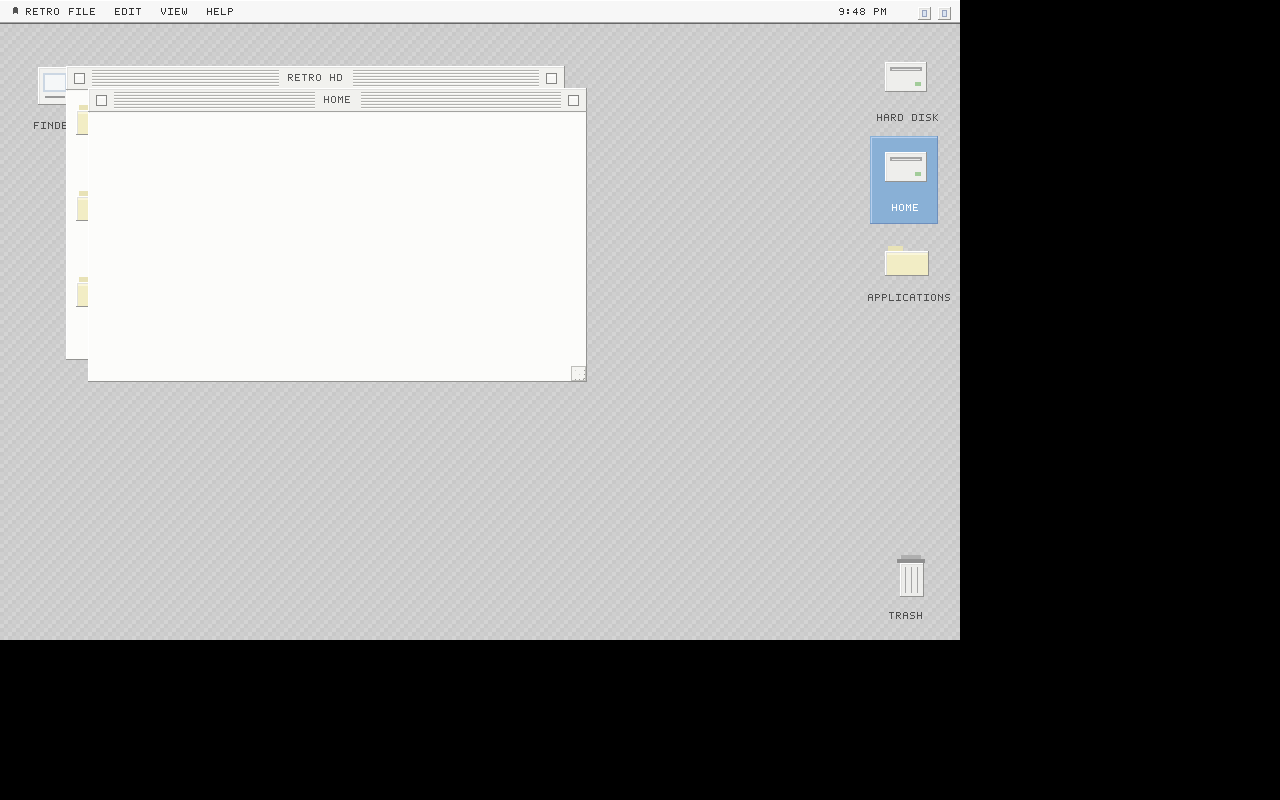
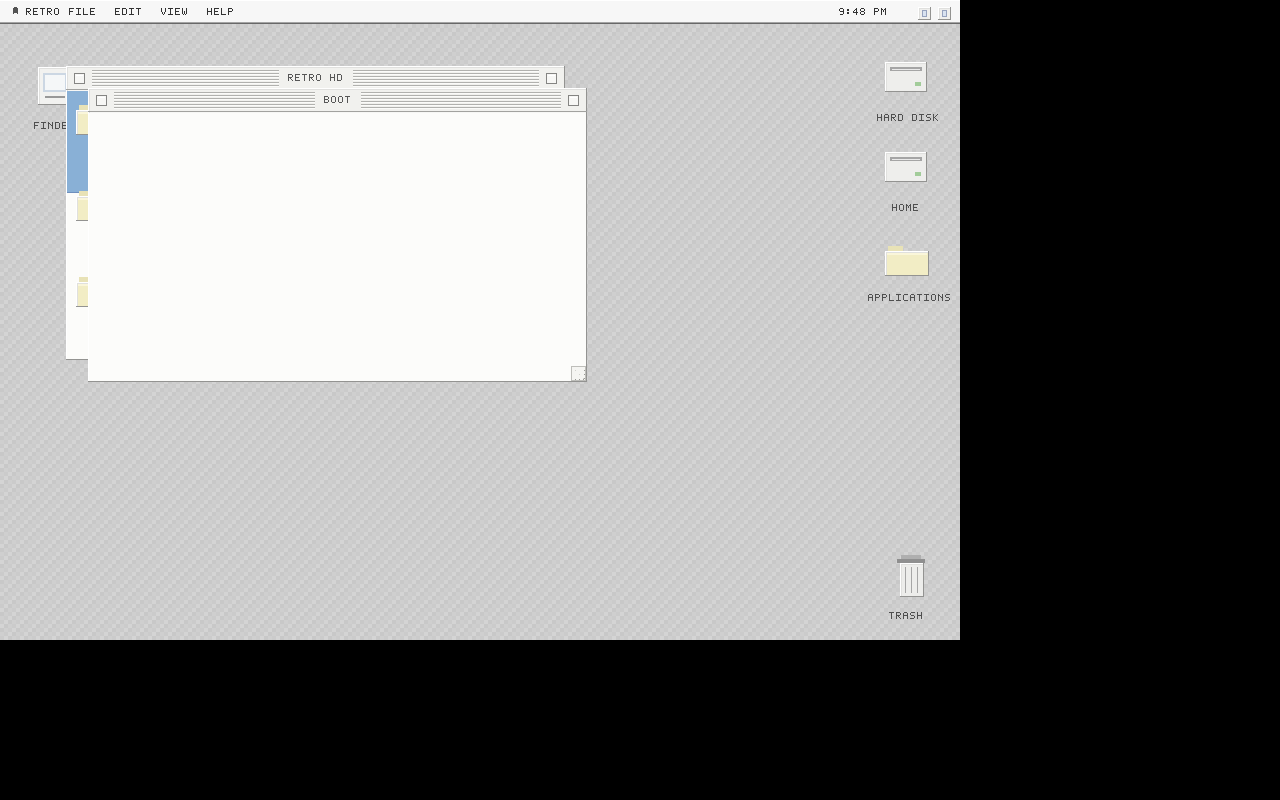
Open child folders from shell windows

Changed region(s): [[0.6562, 0.1562, 0.75, 0.2812], [0.0312, 0.0938, 0.0938, 0.25]]

diff --git a/crates/retro-shell/src/lib.rs b/crates/retro-shell/src/lib.rs
@@ -127,8 +127,14 @@ struct ShellDesktop {
 struct ShellWindow {
     id: Uuid,
     window: Window,
+    folder_path: Option<PathBuf>,
     restore_rect: Option<Rect>,
     mode: ShellWindowMode,
+}
+
+struct FolderOpenTarget {
+    title: String,
+    path: PathBuf,
 }
 
 #[derive(Debug, Clone, Copy, PartialEq, Eq)]
@@ -295,6 +301,7 @@ impl ShellDesktop {
         self.windows.push(ShellWindow {
             id,
             window,
+            folder_path: Some(path),
             restore_rect: None,
             mode: ShellWindowMode::Normal,
         });
@@ -398,6 +405,34 @@ impl ShellDesktop {
             .rev()
             .find(|(_, window)| window.window.rect().contains(point))
             .map(|(index, _)| index)
+    }
+
+    fn folder_open_target_at(&self, window_index: usize, point: Point) -> Option<FolderOpenTarget> {
+        let shell_window = self.windows.get(window_index)?;
+        let folder_path = shell_window.folder_path.as_ref()?;
+        let icon_view = shell_window
+            .window
+            .content
+            .as_ref()?
+            .as_any()
+            .downcast_ref::<IconView>()?;
+        let item = icon_view
+            .items
+            .iter()
+            .find(|item| item.rect.contains(point))?;
+        if item.icon.as_deref() != Some("folder") {
+            return None;
+        }
+
+        let path = folder_path.join(&item.label);
+        if !path.is_dir() {
+            return None;
+        }
+
+        Some(FolderOpenTarget {
+            title: item.label.clone(),
+            path,
+        })
     }
 
     fn layout_window(&mut self, id: Uuid) {
@@ -795,6 +830,17 @@ impl Widget for ShellDesktop {
             }
             Event::DoubleClick { point, .. } => {
                 if let Some(index) = self.top_window_index_at(*point) {
+                    let window_id = self.windows[index].id;
+                    self.focus_window(window_id);
+                    let Some(index) = self.window_index(window_id) else {
+                        return EventResult::Ignored;
+                    };
+
+                    if let Some(target) = self.folder_open_target_at(index, *point) {
+                        self.open_folder_window(target.title, target.path);
+                        return EventResult::Handled;
+                    }
+
                     let result = self.windows[index].window.handle_event(event);
                     if matches!(result, EventResult::Handled | EventResult::StopPropagation) {
                         return result;
@@ -863,6 +909,7 @@ impl Widget for ShellDesktop {
 #[cfg(test)]
 mod tests {
     use super::*;
+    use retro_kit::event::Modifiers;
     use std::time::{SystemTime, UNIX_EPOCH};
 
     fn temp_shell_root() -> PathBuf {
@@ -890,6 +937,22 @@ mod tests {
         assert_eq!(actual.y, expected.y);
         assert_eq!(actual.width, expected.width);
         assert_eq!(actual.height, expected.height);
+    }
+
+    fn icon_item_center(window: &ShellWindow, label: &str) -> Point {
+        let icon_view = window
+            .window
+            .content
+            .as_ref()
+            .and_then(|content| content.as_any().downcast_ref::<IconView>())
+            .expect("shell folder window has icon content");
+        let rect = icon_view
+            .items
+            .iter()
+            .find(|item| item.label == label)
+            .expect("folder item exists")
+            .rect;
+        Point::new(rect.x + rect.width / 2.0, rect.y + rect.height / 2.0)
     }
 
     #[test]
@@ -961,6 +1024,58 @@ mod tests {
         let active = desktop.windows.last().expect("active home window");
         assert_eq!(active.window.title(), "Home");
         assert_eq!(window_manager.read().active_window, Some(active.id));
+    }
+
+    #[test]
+    fn shell_folder_window_double_click_opens_child_folder() {
+        let root = temp_shell_root();
+        fs::create_dir_all(root.join("Projects")).unwrap();
+        fs::write(root.join("note.txt"), "hello").unwrap();
+        let (mut desktop, window_manager) = test_desktop();
+        let initial_count = desktop.windows.len();
+        let root_id = desktop.open_folder_window("Root", root.clone());
+        let index = desktop.window_index(root_id).unwrap();
+        let point = icon_item_center(&desktop.windows[index], "Projects");
+
+        let result = desktop.handle_event(&Event::DoubleClick {
+            button: MouseButton::Left,
+            point,
+            modifiers: Modifiers::NONE,
+        });
+
+        assert!(matches!(result, EventResult::Handled));
+        assert_eq!(desktop.windows.len(), initial_count + 2);
+        let active = desktop.windows.last().expect("child folder window");
+        assert_eq!(active.window.title(), "Projects");
+        assert_eq!(
+            active.folder_path.as_deref(),
+            Some(root.join("Projects").as_path())
+        );
+        assert_eq!(window_manager.read().active_window, Some(active.id));
+
+        fs::remove_dir_all(root).unwrap();
+    }
+
+    #[test]
+    fn shell_folder_window_double_click_file_does_not_open_window() {
+        let root = temp_shell_root();
+        fs::write(root.join("note.txt"), "hello").unwrap();
+        let (mut desktop, _) = test_desktop();
+        let root_id = desktop.open_folder_window("Root", root.clone());
+        let index = desktop.window_index(root_id).unwrap();
+        let point = icon_item_center(&desktop.windows[index], "note.txt");
+        let initial_count = desktop.windows.len();
+
+        let result = desktop.handle_event(&Event::DoubleClick {
+            button: MouseButton::Left,
+            point,
+            modifiers: Modifiers::NONE,
+        });
+
+        assert!(matches!(result, EventResult::Handled));
+        assert_eq!(desktop.windows.len(), initial_count);
+
+        fs::remove_dir_all(root).unwrap();
     }
 
     #[test]

diff --git a/STATUS.md b/STATUS.md
@@ -2,7 +2,7 @@
 
 ## Summary
 
-RetroShell is a working native Rust prototype, not a complete desktop environment yet. Current work has a `wgpu` rendered shell window, original Classic-inspired desktop surface, interactive menu bar, desktop icons, first-party app foundations, managed Finder-style shell windows with menu-driven creation, focus/raise, active-window close, titlebar close/zoom controls, View-menu fullscreen, drag, resize, and desktop folder icons opening filesystem-backed shell windows.
+RetroShell is a working native Rust prototype, not a complete desktop environment yet. Current work has a `wgpu` rendered shell window, original Classic-inspired desktop surface, interactive menu bar, desktop icons, first-party app foundations, managed Finder-style shell windows with menu-driven creation, focus/raise, active-window close, titlebar close/zoom controls, View-menu fullscreen, drag, resize, desktop folder icons opening filesystem-backed shell windows, and folder icons inside managed shell windows opening child folder windows.
 
 Finder has sidebar, icon grid, sorted directory listing, status/path bar, parent-folder navigation, folder-entry helpers. Definition done remains a full desktop environment: working Finder, TextEdit, Settings, Terminal, package-manager backed App Store, native dark mode, compositor/session path, HDR, VRR, and real application/game validation.
 
@@ -12,7 +12,7 @@ Finder has sidebar, icon grid, sorted directory listing, status/path bar, parent
 |-------|------|--------|
 | retro-render | `crates/retro-render/` | Prototype: native `wgpu` rendering works; text, clipping, compositor/display features, HDR, VRR remain incomplete. |
 | retro-kit | `crates/retro-kit/` | Prototype: core widget layout exists; polished accessibility, drag/drop, focus visuals, menus, theme coverage remain incomplete. |
-| retro-shell | `crates/retro-shell/` | Prototype: rendered desktop, menu bar, shell services, managed shell windows, close, zoom, fullscreen, drag, resize, and desktop folder icon launch exist; focus visuals, minimize, sessions, app lifecycle, compositor integration remain incomplete. |
+| retro-shell | `crates/retro-shell/` | Prototype: rendered desktop, menu bar, shell services, managed shell windows, close, zoom, fullscreen, drag, resize, desktop folder icon launch, and child folder opening exist; focus visuals, minimize, sessions, app lifecycle, compositor integration remain incomplete. |
 | retro-bus | `crates/retro-bus/` | Foundation: local transport primitives exist; broader service integration remains incomplete. |
 | retro-sdk | `crates/retro-sdk/` | Prototype: app runtime and immediate renderer exist; command routing and mature app integration remain incomplete. |
 
@@ -30,18 +30,18 @@ Finder has sidebar, icon grid, sorted directory listing, status/path bar, parent
 
 - `cargo fmt --all -- --check`
 - `cargo check --workspace --all-targets`
-- `cargo test --workspace -q` (41 tests)
+- `cargo test --workspace -q` (43 tests)
 - `cargo clippy --workspace --all-targets -- -D warnings`
-- Linux VM/Xvfb/Mesa Vulkan llvmpipe smoke: `retro-shell` starts, accepts pointer interaction, toggles the active Finder-style managed shell window into fullscreen from the View menu, opens Home from the desktop into a managed folder window, and captures `docs/screenshots/current-retroshell-desktop.png`.
+- Linux VM/Xvfb/Mesa Vulkan llvmpipe smoke: `retro-shell` starts, accepts pointer interaction, toggles the active Finder-style managed shell window into fullscreen from the View menu, opens Home from the desktop into a managed folder window, opens a child folder from inside the initial managed folder window, and captures `docs/screenshots/current-retroshell-desktop.png`.
 - Prior Linux VM/Xvfb/Mesa smoke: `finder` starts against a demo home directory and captures `docs/screenshots/current-finder.png`.
 
 ## Next Milestones
 
 1. Finish shell window management: focus rings, multiple real app surfaces, minimize controls, modal dialogs, persisted placement.
-2. Make Finder real: browse directories from shell windows, open folders from shell window contents, wire file operations to UI, add context menus and trash behavior.
+2. Make Finder real: browse directories from shell windows, add back/forward/up navigation, wire file operations to UI, add context menus and trash behavior.
 3. Make TextEdit real: open/save documents, dirty state, undo/redo, selection, clipboard, file dialogs.
 4. Make Terminal robust: PTY lifecycle, resize propagation, scrollback UI, selection, copy/paste, shell session persistence.
 5. Make Settings persistent: appearance, input, display, package-manager settings, future HDR/VRR controls.
 6. Add App Store: backend abstraction for Linux/BSD package managers, search/install/remove/update flows, safe privilege handling.
 7. Build compositor/display path: Wayland/session integration, multi-monitor, HiDPI, HDR metadata/color pipeline, VRR frame pacing.
-8. Capture release evidence: video with audio of Doom running on RetroShell in windowed, borderless fullscreen, exclusive fullscreen modes.
+8. Capture release evidence: video with audio of Doom running on RetroShell in windowed, borderless fullscreen, and exclusive fullscreen modes.

diff --git a/README.md b/README.md
@@ -18,7 +18,7 @@ Every major UI/UX change should refresh the current screenshots. Screenshots liv
 
 ### Current Implementation
 
-Captured from a Linux VM/Xvfb/Mesa smoke run after the native `wgpu` desktop, interactive menu bar, original desktop icons, managed Finder-style shell windows, desktop folder icons opening filesystem-backed shell windows, focus/raise, active-window close, titlebar close/zoom controls, View-menu fullscreen, drag/resize, and visible grow box passed.
+Captured from a Linux VM/Xvfb/Mesa smoke run after the native `wgpu` desktop, interactive menu bar, original desktop icons, managed Finder-style shell windows, desktop folder icons opening filesystem-backed shell windows, folder icons inside managed shell windows opening child folder windows, focus/raise, active-window close, titlebar close/zoom controls, View-menu fullscreen, drag/resize, and visible grow box passed.
 
 ![Current RetroShell desktop](docs/screenshots/current-retroshell-desktop.png)
 
@@ -34,15 +34,15 @@ Current visual direction: Classic Mac-inspired desktop proportions, menu density
 
 ## Current State
 
-RetroShell currently builds and launches a native rendered desktop surface, menu strip, desktop icons, app bundle labels, first-party apps wired through RetroKit/RetroSDK, a first pass at managed shell windows with functional close, zoom, fullscreen controls, and desktop Home/Hard Disk/Trash icons opening folder-backed shell windows. This implementation is still foundation work, not a polished desktop environment.
+RetroShell currently builds and launches a native rendered desktop surface, menu strip, desktop icons, app bundle labels, first-party apps wired through RetroKit/RetroSDK, a first pass at managed shell windows with functional close, zoom, fullscreen controls, desktop Home/Hard Disk/Trash icons opening folder-backed shell windows, and in-window folder icons opening child folder windows. This implementation is still foundation work, not a polished desktop environment.
 
 Verified locally:
 
 - `cargo fmt --all -- --check`
 - `cargo check --workspace --all-targets`
-- `cargo test --workspace -q` (41 tests)
+- `cargo test --workspace -q` (43 tests)
 - `cargo clippy --workspace --all-targets -- -D warnings`
-- `retro-shell` under Linux/Xvfb/Mesa Vulkan llvmpipe, including View-menu fullscreen for the active managed Finder-style shell window and desktop Home icon opening a managed folder window
+- `retro-shell` under Linux/Xvfb/Mesa Vulkan llvmpipe, including View-menu fullscreen for the active managed Finder-style shell window, desktop Home icon opening a managed folder window, and in-window folder double-click opening a child managed folder window
 
 ## What Is Left
 